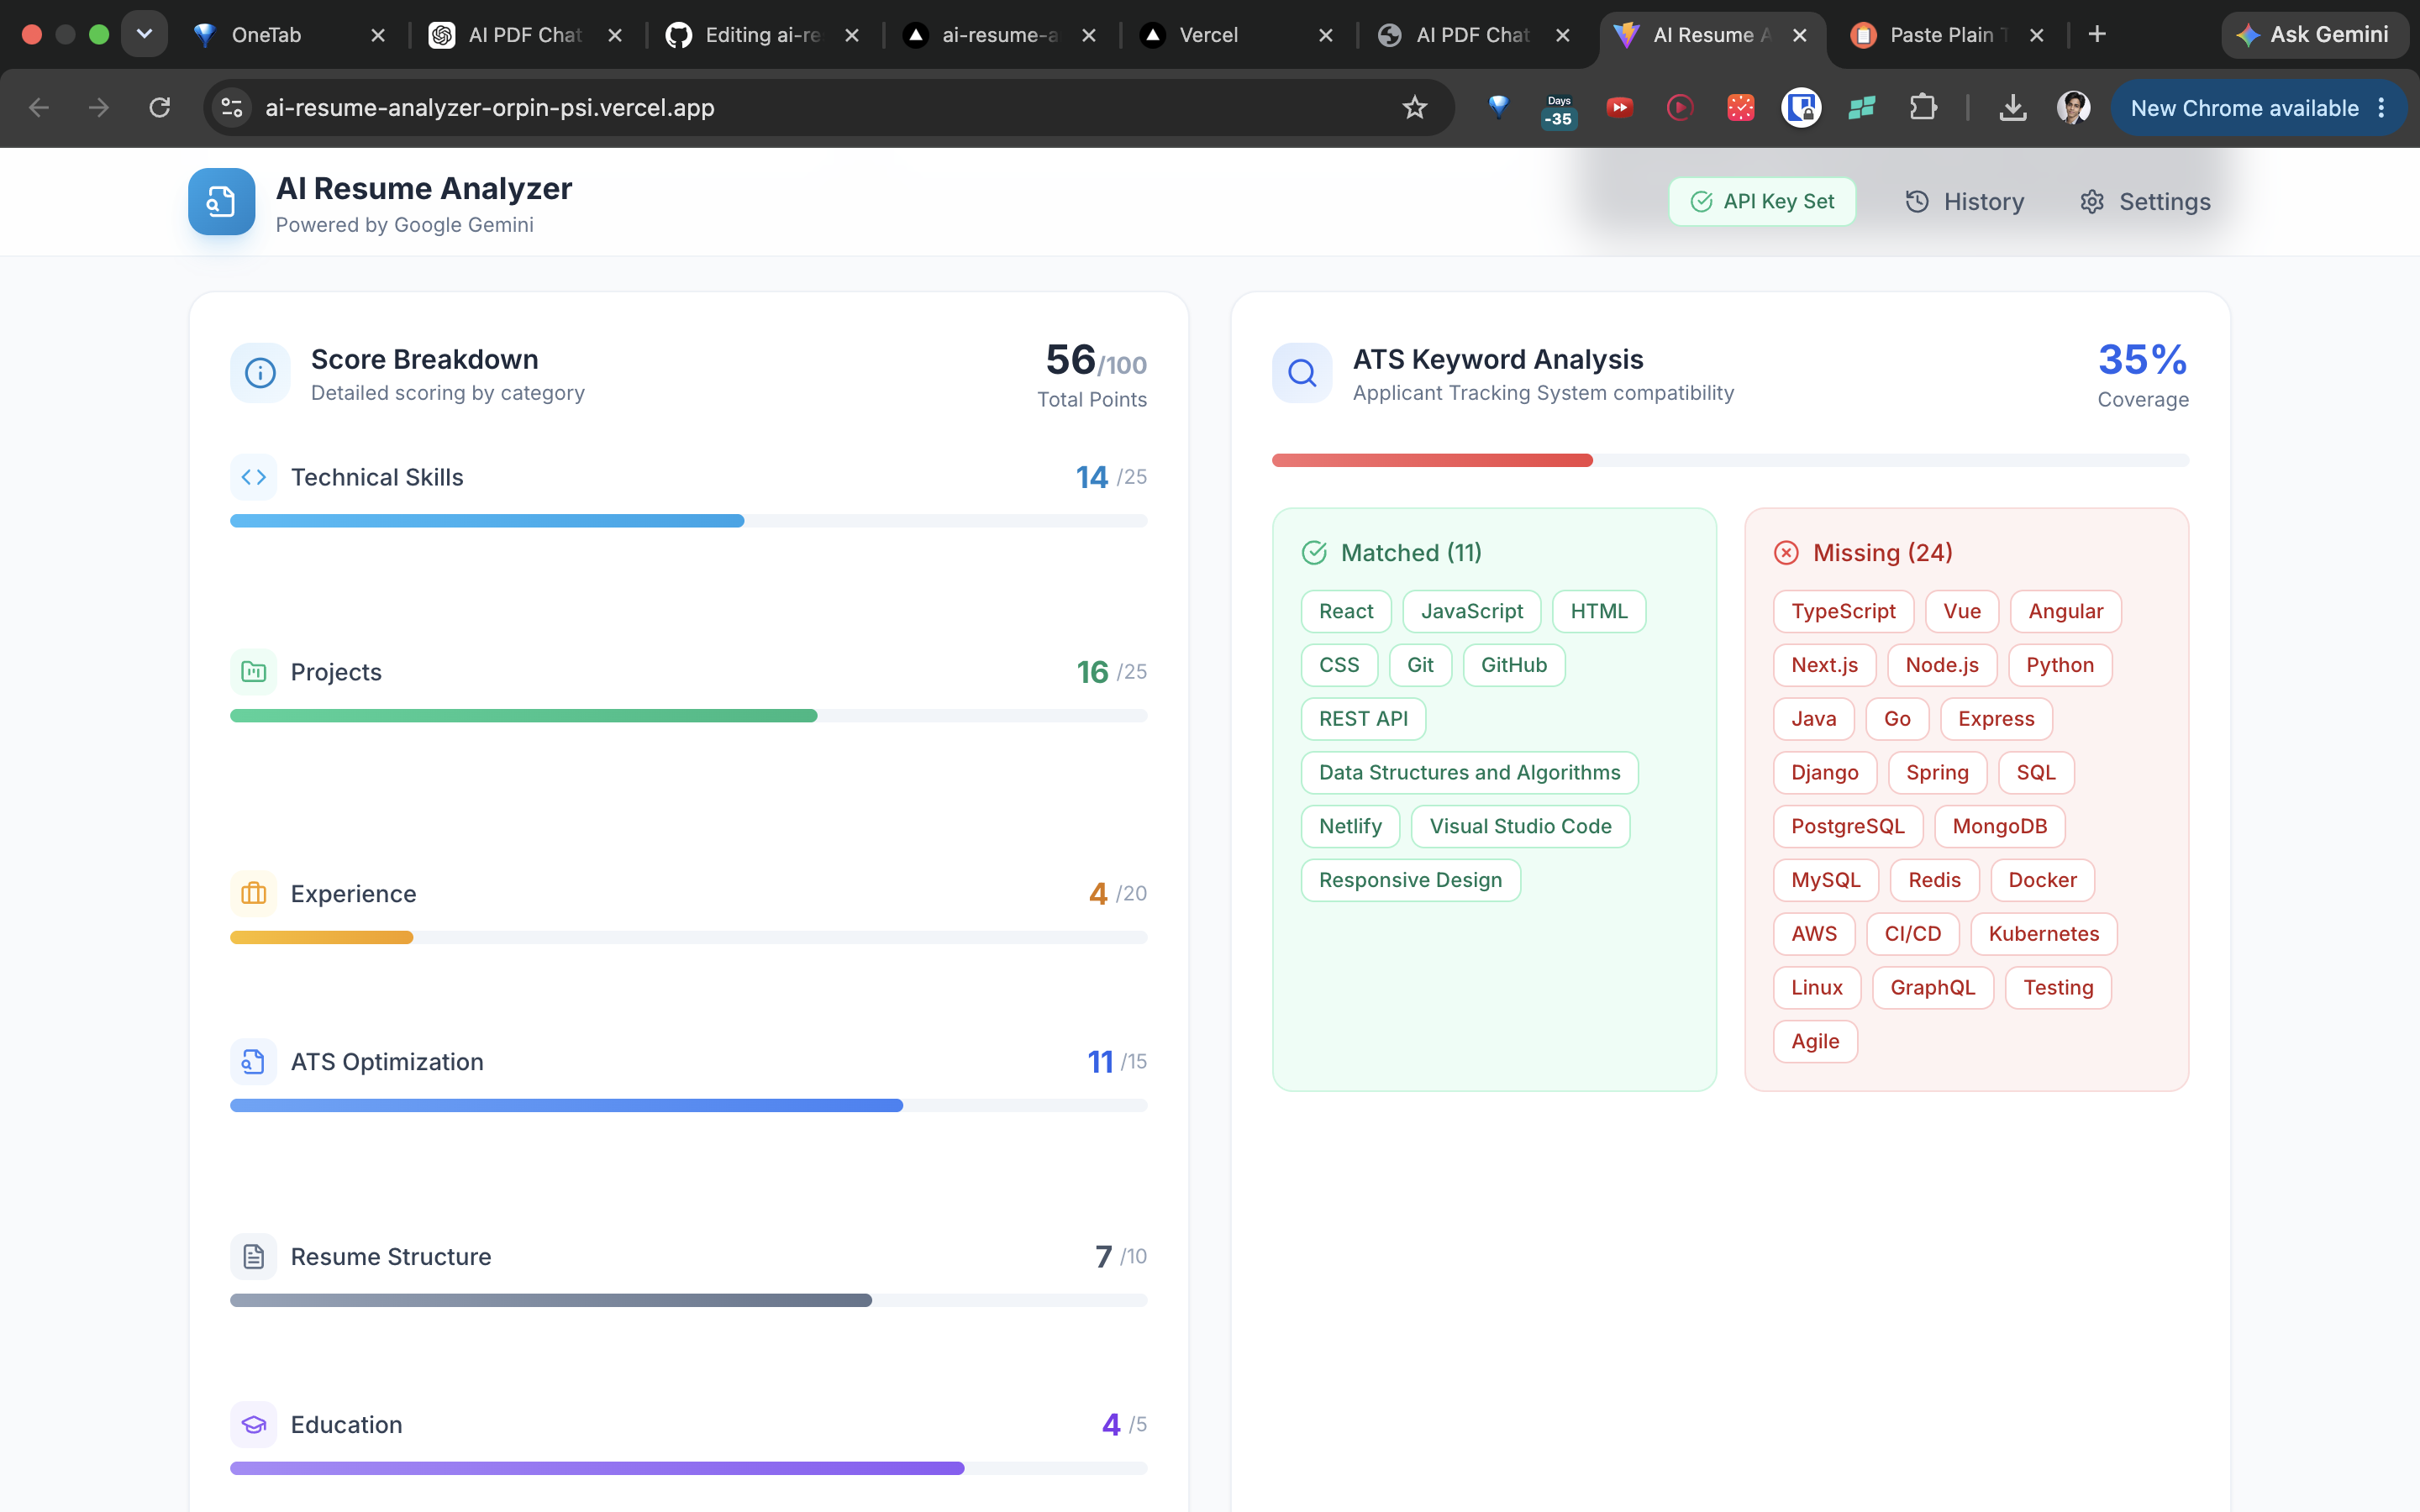
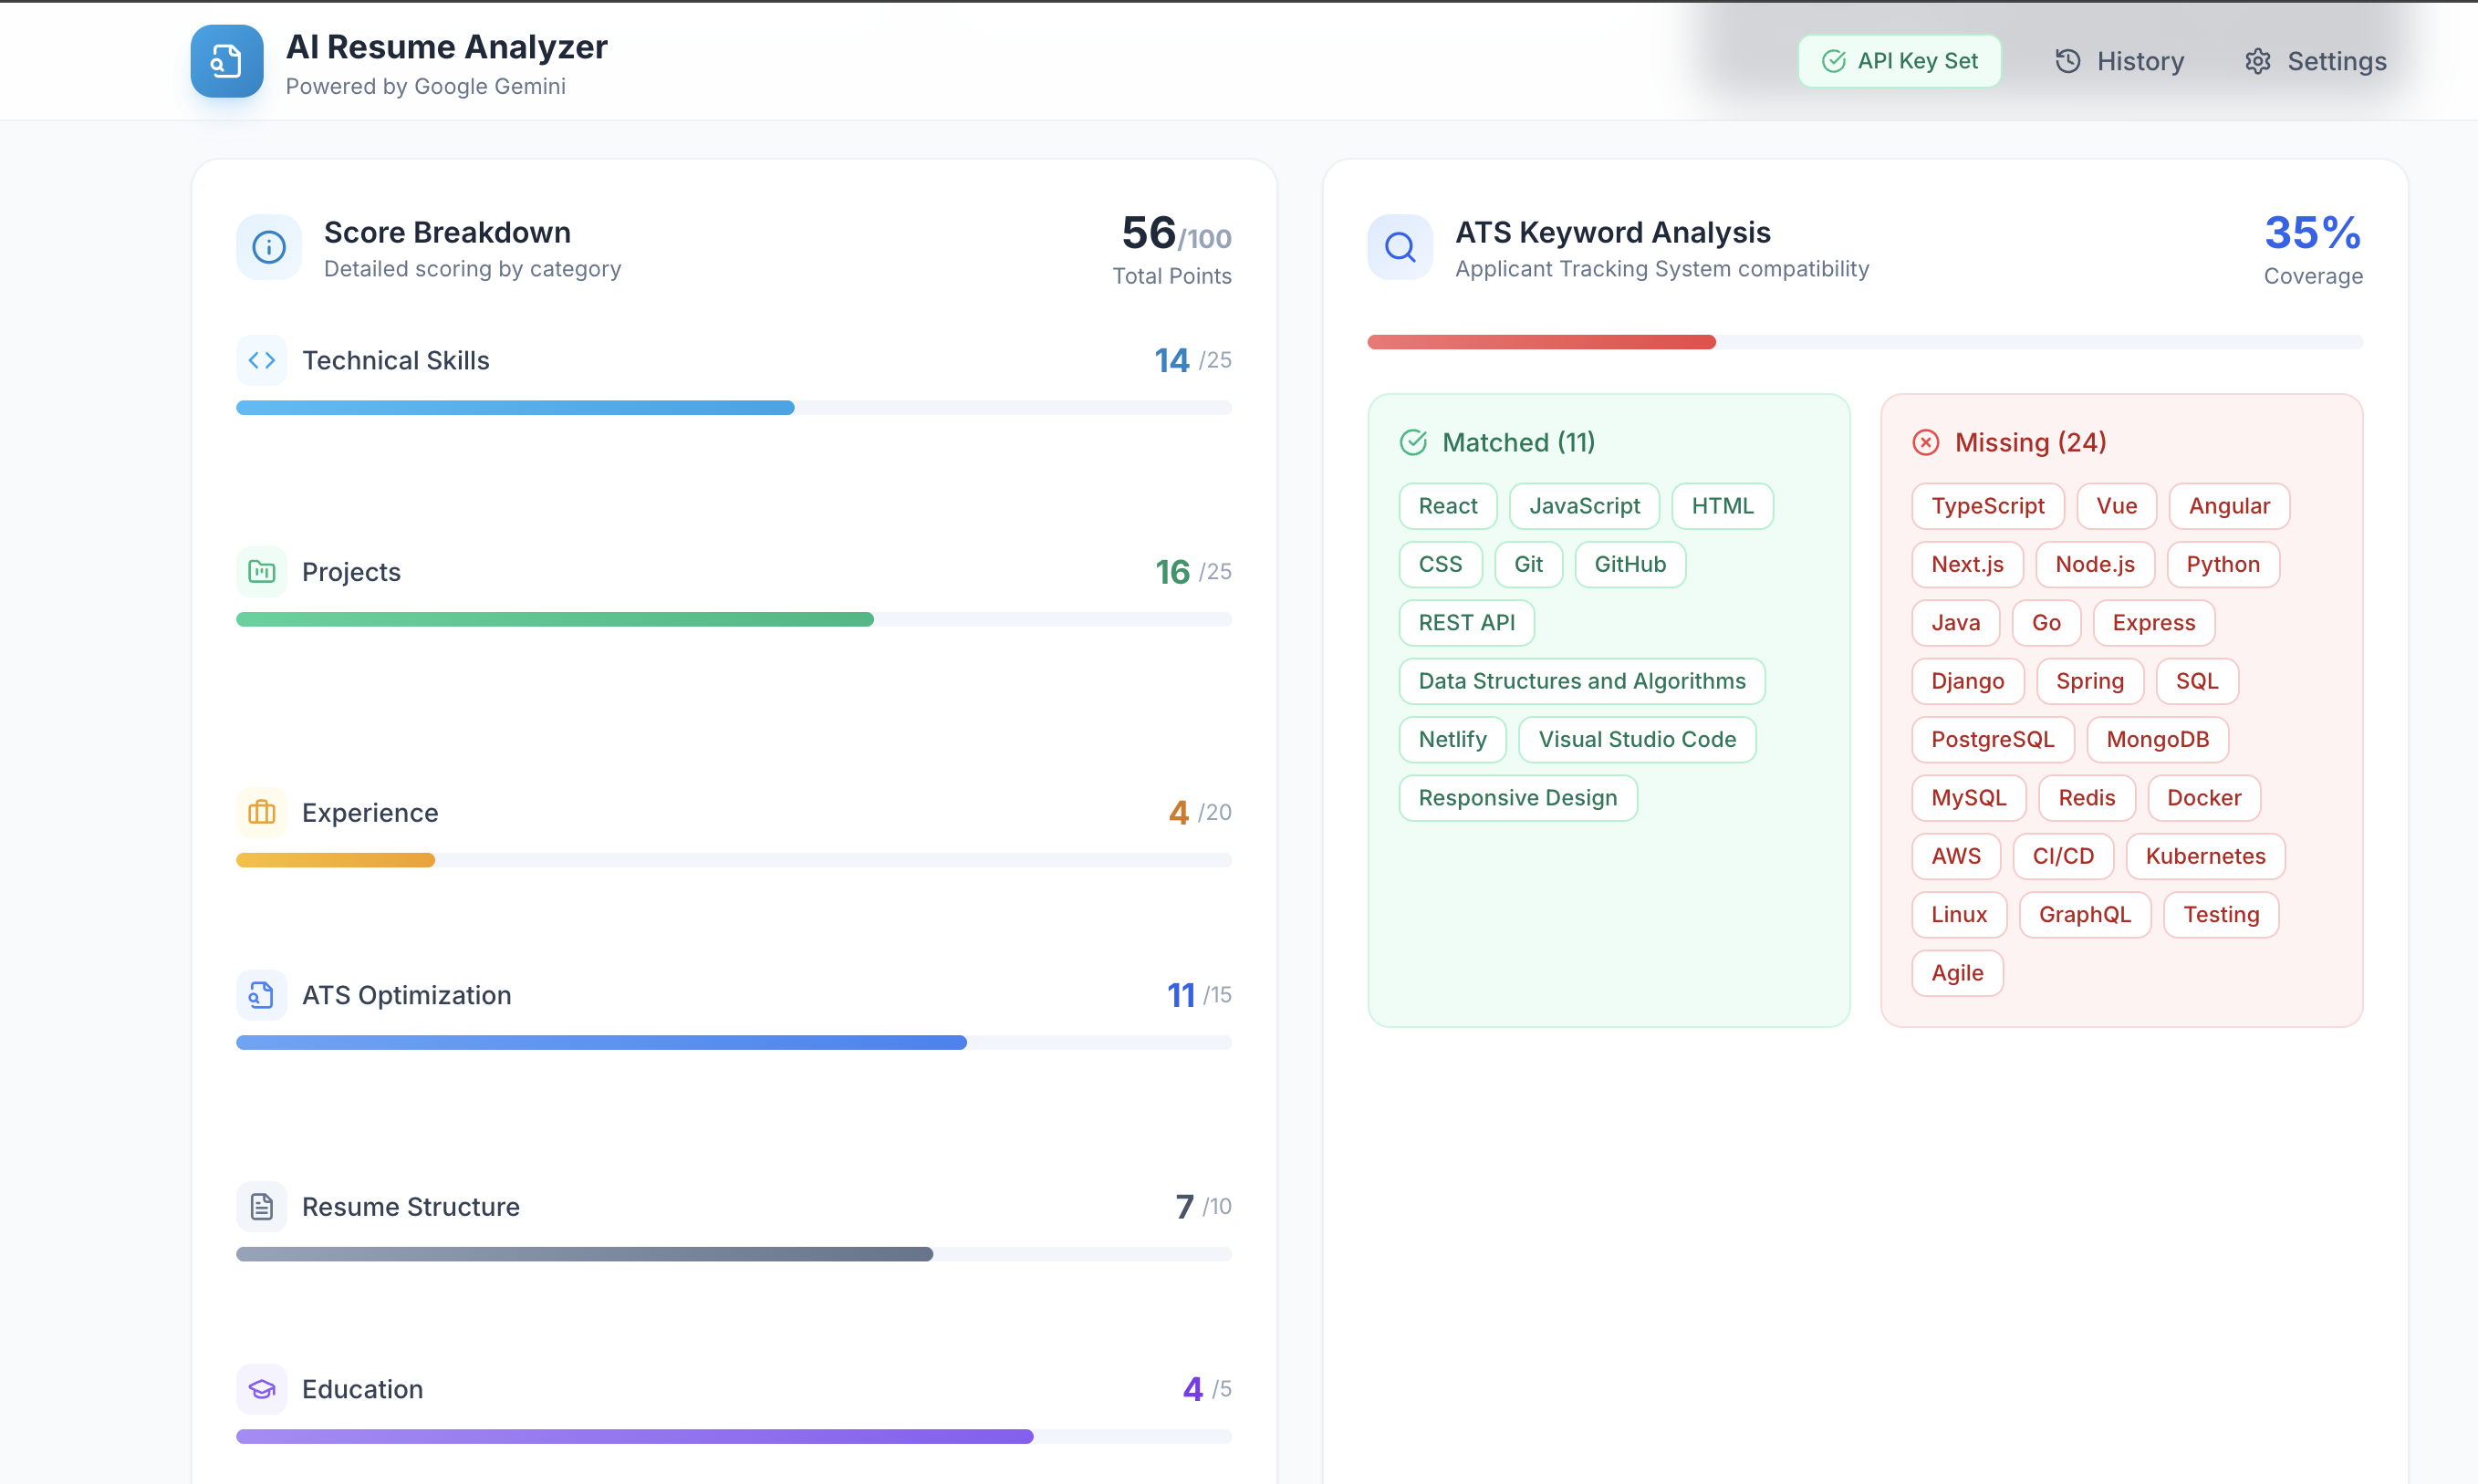
add screenshots and improve README

diff --git a/README.md b/README.md
@@ -2,11 +2,11 @@
 
 A production-quality, placement-ready AI-powered resume analyzer that provides realistic scoring, detailed feedback, and actionable improvement plans.
 
-# Live Demo
+## Live Demo
 
 //ai-resume-analyzer-orpin-psi.vercel.app/
 
-# GitHub Repository
+## GitHub Repository
 
 //github.com/irrshad7-droid/ai-resume-analyzer
 